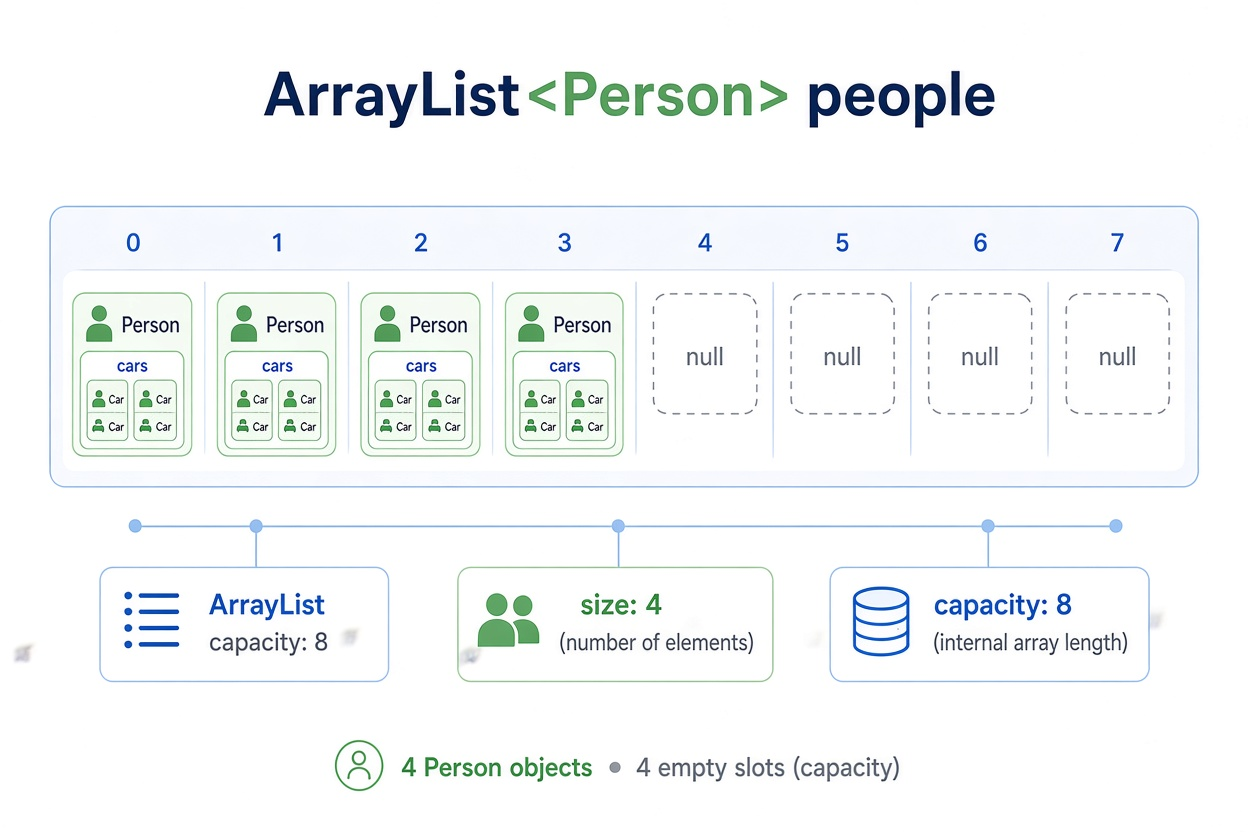
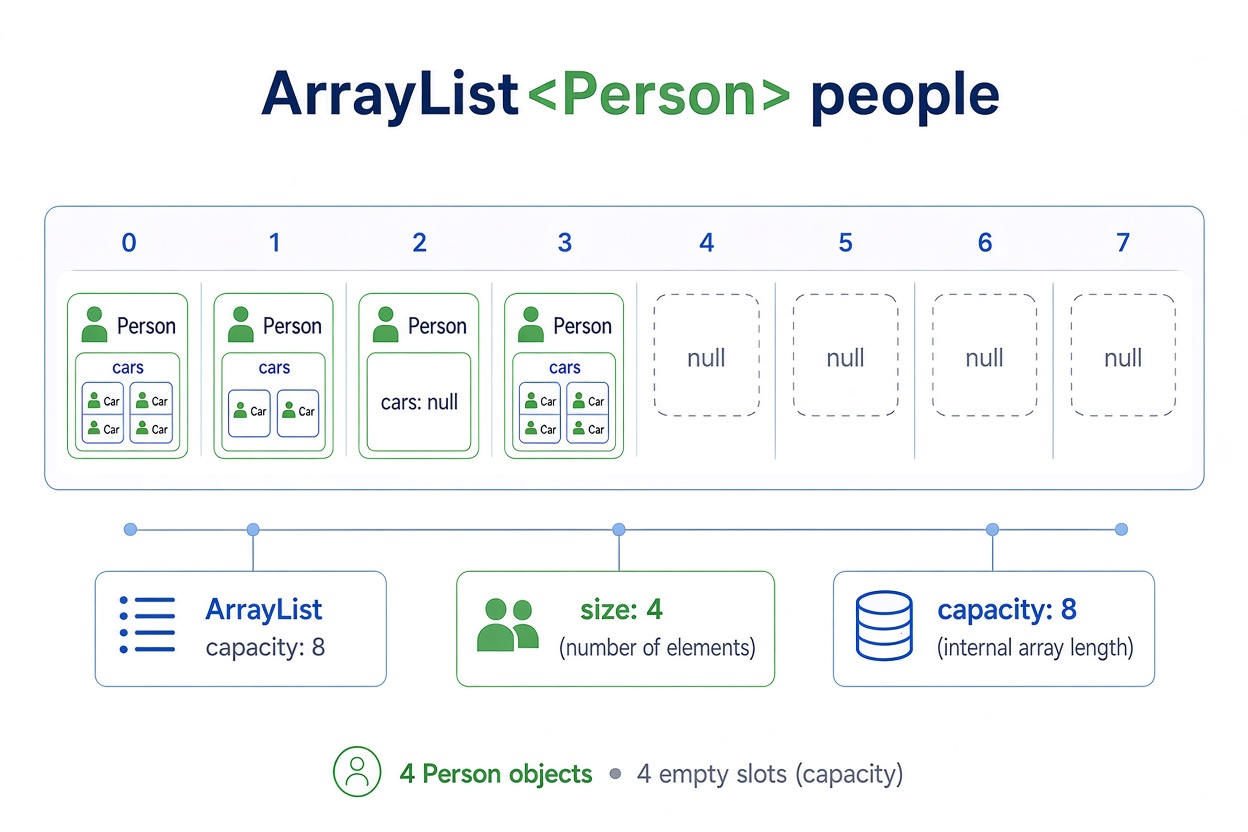
Built site for gh-pages

diff --git a/ifcd0021-26/ifcd0021-backlog-sprint-26.html b/ifcd0021-26/ifcd0021-backlog-sprint-26.html
@@ -2064,7 +2064,7 @@ tr:hover {background-color:  #f4f4f4;}
 <td></td>
 <td>06</td>
 <td>22/09/26</td>
-<td>- compassMap project: <br> (1) feature/mockup, <code>architecture</code>, <code>data model</code> <br> (2) create project: Spring Init, documentation <br> (3) <code>view</code> &amp; <code>controller</code> &amp; <s><strong>model</strong></s> <br> (4) create local and remote repositories, <code>git/gh</code> <br> (5) deploy <code>Render</code> &amp; life cycle development <br> (6) <code>H2</code>, <code>JPA</code>, <code>application.properties</code>, <code>Repository</code> <br> (7) <strong>Service</strong> <br> (8) <code>JUnit Test</code> <br> <br> - Java class and object: <code>primitive</code> types and <code>reference</code> types <br> - Java is:<br> (1) typed, <br> (2) <code>blocking</code> and <br> (3) <code>mutable</code> language (known for performance power)</td>
+<td>- compassMap project: <br> (1) feature/mockup, <code>architecture</code>, <code>data model</code> <br> (2) create project: Spring Init, documentation <br> (3) <code>view</code> &amp; <code>controller</code> &amp; <s><strong>model</strong></s> <br> (4) create local and remote repositories, <code>git/gh</code> <br> (5) deploy <code>Render</code> &amp; life cycle development <br> (6) <code>H2</code>, <code>JPA</code>, <code>application.properties</code>, <code>Repository</code> <br> (7) <strong>Service</strong> <br> (8) <code>JUnit Test</code> <br> <br> - Java class and object: <code>primitive</code> types and <code>reference</code> types <br> - Java is:<br> (1) typed, <br> (2) <code>blocking</code> and <br> (3) <code>mutable</code> language (known for performance power) <br><br> - Manage Project: Project &gt; UML/DDD &gt; PseudoCode &gt; Type it!</td>
 <td>- <a href="https://github.com/AlbertProfe/compassMap/tree/e4c4453b0499056994559a33c03505cb557d4ee5" class="external" target="_blank">compassMap project: e4c4453</a> <br><br> - <a href="../javase/se-concepts-objects.html" class="external" target="_blank">Java Class</a> <br> <a href="../images/javase/pointToObject-1.png" class="lightbox" data-gallery="quarto-lightbox-gallery-5"><img src="../images/javase/pointToObject-1.png" class="img-fluid quarto-figure quarto-figure-center" style="width:80.0%"></a> <br> <a href="../images/ifcd0021-26/JavaSE_primitives-reference.jpg" class="lightbox" data-gallery="quarto-lightbox-gallery-6"><img src="../images/ifcd0021-26/JavaSE_primitives-reference.jpg" class="img-fluid quarto-figure quarto-figure-center" style="width:80.0%"></a> <br> - <a href="../images/ifcd0021-26/code/people-car.html" class="external" target="_blank">People-Car algorithm</a> <br> <a href="../images/ifcd0021-26/people-cars.jpg" class="lightbox" data-gallery="quarto-lightbox-gallery-7"><img src="../images/ifcd0021-26/people-cars.jpg" class="img-fluid quarto-figure quarto-figure-center" style="width:80.0%"></a></td>
 </tr>
 <tr class="odd">
@@ -2078,7 +2078,7 @@ tr:hover {background-color:  #f4f4f4;}
 <td></td>
 <td>07</td>
 <td>25/09/26</td>
-<td>- compassMap project: <br> (1) feature/mockup, <code>architecture</code>, <code>data model</code> <br> (2) create project: Spring Init, documentation <br> (3) <code>view</code> &amp; <code>controller</code> &amp; <strong>model</strong> <br> (4) create local and remote repositories, <code>git/gh</code> <br> (5) deploy <code>Render</code> <br> (6) <code>H2</code>, <code>JPA</code>, <code>application.properties</code>, <code>Repository</code> <br> (7) <code>Service</code> <br> (8) <code>JUnit Test</code> <br> <br></td>
+<td>- compassMap project: <br> (1) feature/mockup, <code>architecture</code>, <code>data model</code> <br> (2) create project: Spring Init, documentation <br> (3) <code>view</code> &amp; <code>controller</code> &amp; <strong>model</strong> <br> (4) create local and remote repositories, <code>git/gh</code> <br> (5) deploy <code>Render</code> <br> (6) <code>H2</code>, <code>JPA</code>, <code>application.properties</code>, <code>Repository</code> <br> (7) <code>Service</code> <br> (8) <code>JUnit Test</code> <br> <br> - <code>commandLineunner</code> and <code>Java faker</code> for synthetic data</td>
 <td>- <a href="https://github.com/AlbertProfe/compassMap/tree/xxx" class="external" target="_blank">compassMap project: xxxx</a> <br><br> - <a href="https://albertprofe.dev/springboot/sblab8-3.html#configuring-h2-database-in-spring-boot-with-ddl-auto-generation" class="external" target="_blank">application.properties: DDL</a> <br> - <a href="https://albertprofe.dev/springboot/sblab8-4.html" class="external" target="_blank">Lab#SB08-4: JPA</a></td>
 </tr>
 </tbody>
